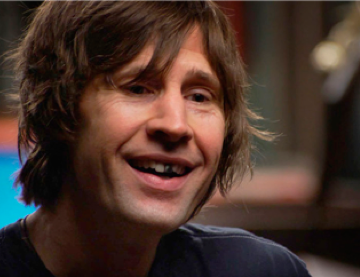
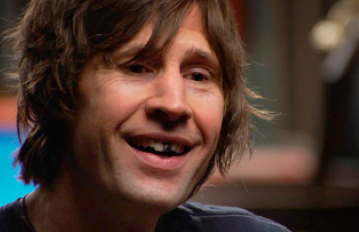
Adding cropped image

diff --git a/public/index.html b/public/index.html
@@ -113,17 +113,23 @@
               eiusmod tempor incididunt ut labore et dolore magna aliqua. Ut
               enim ad minim veniam, quis nostrud exercitation ullamco laboris
               nisi ut aliquip ex ea commodo consequat.
-              <a href="#">Facebook</a>
-              <a href="#">RSS</a>
-              <a href="#">Twitter</a>
-              <a href="#">YouTube</a>
             </p>
+              <a class="social-link" href="https://www.facebook.com/powellperalta/?fref=ts">
+                <span class="fa fa-facebook"></span></a>
+              <a class="social-link" href="http://powell-peralta.com/rss/">
+                <span class="fa fa-rss"></span></a>
+              <a class="social-link" href="https://twitter.com/PowellPeralta">
+                <span class="fa fa-twitter"></span></a>
+              <a class="social-link" href="https://www.youtube.com/PowellPeralta">
+                <span class="fa fa-youtube"></span></a>
           </div>
           <div class="contact-form">
-            <input type="text" id="name" />
-            <input type="text" id="email" />
-            <input type="text" id="your message" />
-            <button>SUBMIT</button>
+            <div class="contact-info">
+              <input type="text" id="name" />
+              <input type="text" id="email" />
+              <input type="text" id="your-message" />
+           </div>
+            <button class="sub-btn">SUBMIT</button>
           </div>
         </div>
       </section>

diff --git a/sass/app.scss b/sass/app.scss
@@ -10,7 +10,7 @@ $fa-font-path: "//netdna.bootstrapcdn.com/font-awesome/4.3.0/fonts";
 /* GLOBAL STYLING */
 html {
   box-sizing: border-box;
-  // background: url(img/bg.jpg);
+  background: url(img/bg.jpg);
 }
 *, *::before, *::after {
   box-sizing: inherit;
@@ -49,6 +49,7 @@ a {
 }
 .radio-btns {
   text-align: center;
+  padding: 0.5rem;
 }
 
 /** ARTICLE GRIDS **/
@@ -92,7 +93,7 @@ a {
   position: relative;
   overflow: auto;
 }
-h2 {
+.skater-grid h2 {
   position: absolute;
   right: 100%;
   width: 12rem;
@@ -105,13 +106,13 @@ h2 {
   font-weight: bolder;
   color: #eee;
 }
-h2::before {
-position: absolute;
-width: 0;
-height: 0;
-border-style: solid;
-border-width: 50px 0 50px 86.6px;
-border-color: transparent transparent transparent #b51d2a;
+skater-grid h2::before {
+  position: absolute;
+  width: 0;
+  height: 0;
+  border-style: solid;
+  border-width: 50px 0 50px 86.6px;
+  border-color: transparent transparent transparent #b51d2a;
 }
 
 .img-grid__sec {
@@ -151,6 +152,7 @@ border-color: transparent transparent transparent #b51d2a;
 
 /** SKATEBOARD GRID **/
 .skateboard-grid {
+  margin-top: 2rem;
   background: white;
 }
 .skateboard-grid img {
@@ -163,3 +165,4 @@ border-color: transparent transparent transparent #b51d2a;
 
 @import "page-header.scss";
 @import "top-nav.scss";
+@import "site-info"

diff --git a/sass/site-info.scss b/sass/site-info.scss
@@ -1,0 +1,53 @@
+/** BOTTOM CONNECT SECTION **/
+.bottom-connect {
+  display: flex;
+  width: 100%;
+  height: 20rem;
+  margin-top: 2rem;
+  margin-bottom: 4rem;
+  border: 1px transparent solid;
+  background: white;
+}
+.site-info {
+  width: calc(50% - 2rem);
+  margin: 1rem;
+}
+.site-info .fa {
+  margin: 0.1rem;
+  height: 1.3rem;
+  width: 1.3rem;
+  padding-top: 0.3rem;
+  line-height: 0.6rem;
+  text-align: center;
+  background: grey;
+  border: 1px transparent solid;
+  color: lightgrey;
+}
+.contact-form {
+  width: calc(50% - 2rem);
+  margin: 1rem;
+}
+.contact-info {
+  display: block;
+  text-align: right;
+  margin-top: 1rem;
+}
+#name, #email {
+  height: 2.5rem;
+  width: 25rem;
+  margin: 0.5rem;
+}
+#your-message {
+  height: 5rem;
+  width: 25rem;
+  margin: 0.5rem;
+}
+.sub-btn {
+  float: right;
+  margin-right: 0.5rem;
+  margin-top: 1rem;
+  height: 2.5rem;
+  width: 10rem;
+  background: #b51d2a;
+  color: #eee;
+}

diff --git a/sass/page-header.scss b/sass/page-header.scss
@@ -11,8 +11,10 @@ header {
   line-height: 6rem;
 }
 .sub-link {
-  padding-right: 3rem;
+  padding-right: 3.5rem;
   font-size: 0.7rem;
+  color: #eee;
+  font-weight: bold;
 }
 .fa {
   margin: 0.3rem;
@@ -22,7 +24,6 @@ header {
   line-height: 1.5rem;
   text-align: center;
   border: 1px transparent solid;
-  color: #eee;
 }
 .fa-facebook {
   background: blue;
